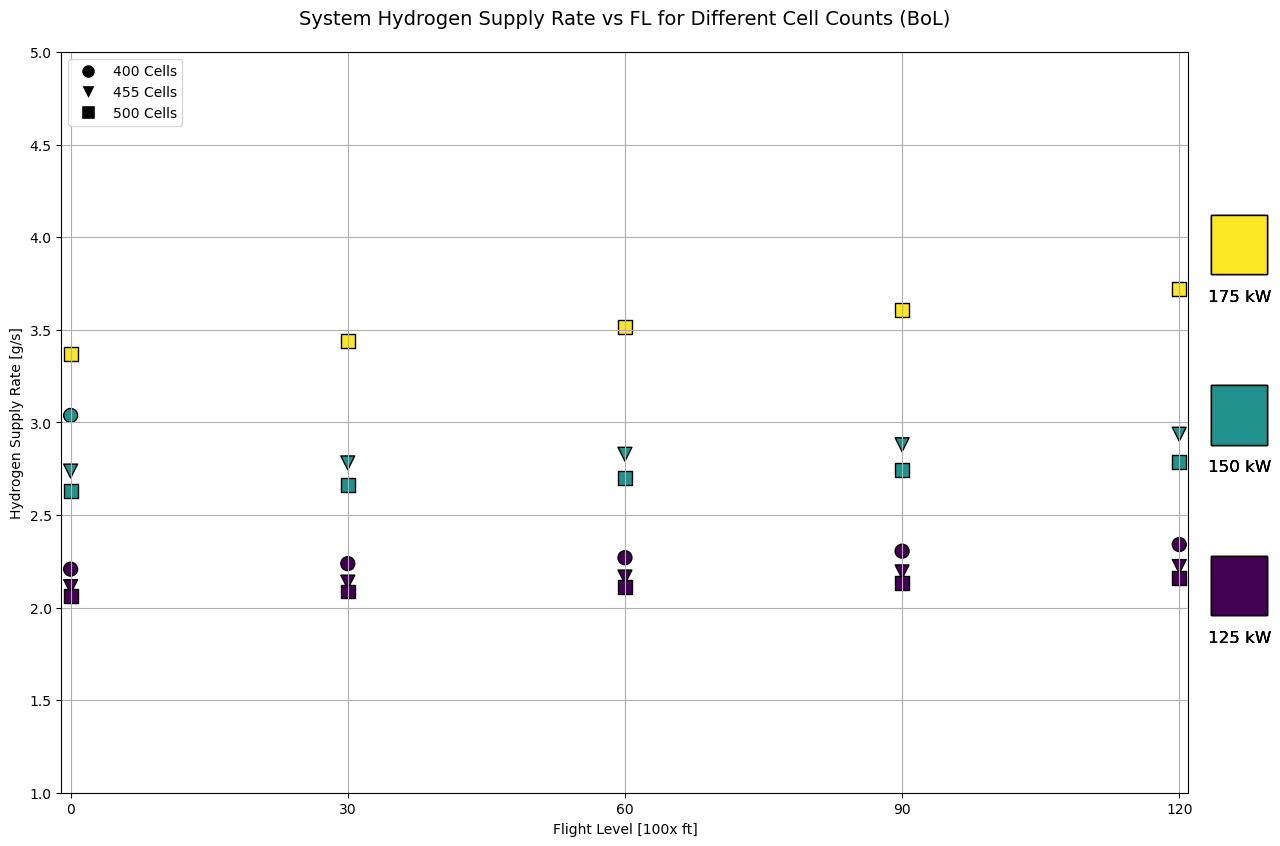
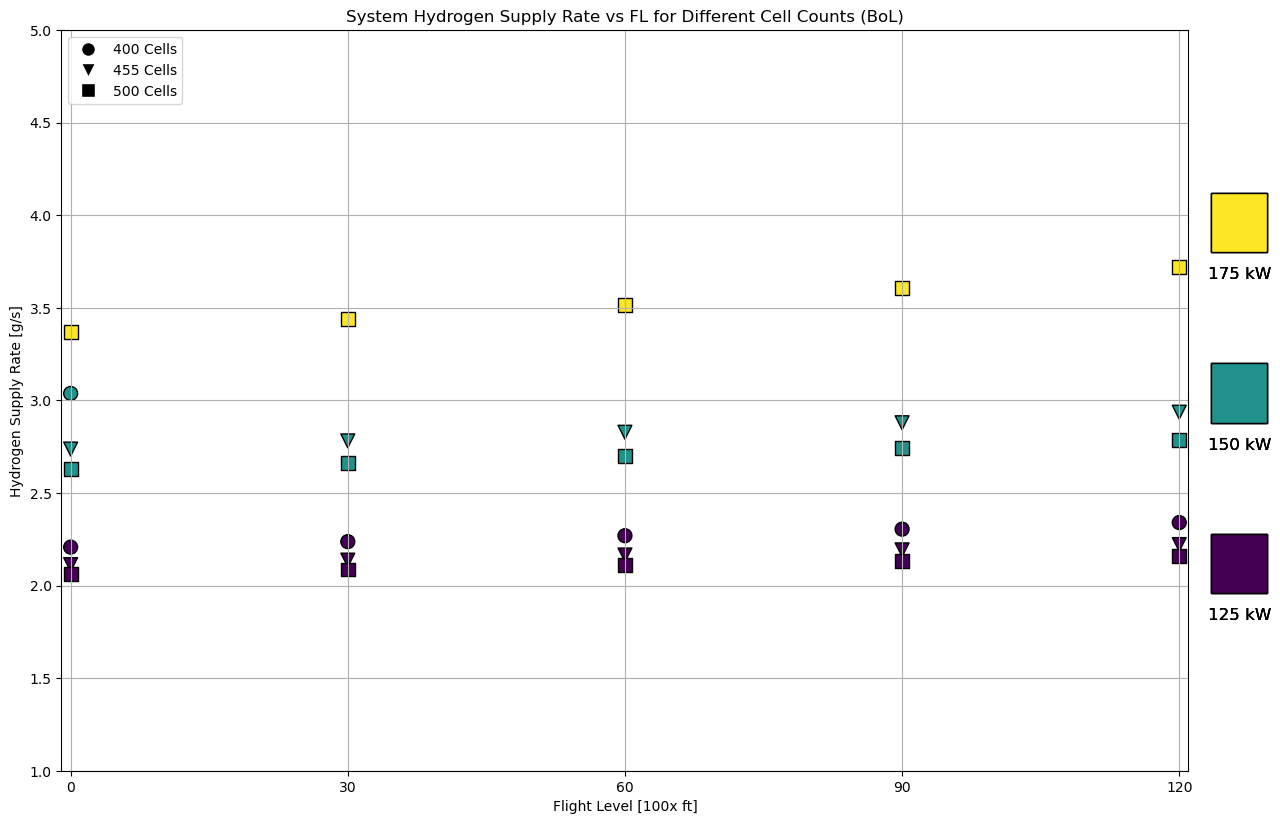
refactor: create dictionary for plots

diff --git a/05_overall/05_fcs_dimensioning_model/Postprocessing/plot_h2_supply_vs_FL.py b/05_overall/05_fcs_dimensioning_model/Postprocessing/plot_h2_supply_vs_FL.py
@@ -4,6 +4,17 @@ import matplotlib.colors as mcolors
 import matplotlib.pyplot as plt
 import matplotlib.patches as patches
 from get_plot_settings import *
+
+params = {
+    'title': '', 
+    'x_label': 'Flight Level [100x ft]', 
+    'x_lim': None, 
+    'y_label': 'Hydrogen Supply Rate [g/s]',
+    'y_lim': None,  
+}
+
+
+
 # %% PLOT: H2 supply over flight level all in one
 def plot_h2_supply_vs_FL(df1, markers, fl_max, weighting, show_plot, saving=True, mode="eol"):
     """
@@ -58,20 +69,22 @@ def plot_h2_supply_vs_FL(df1, markers, fl_max, weighting, show_plot, saving=True
         handles = [plt.Line2D([0], [0], marker=marker, color='w', markerfacecolor='k', markersize=10, linestyle='') for marker in markers]
         labels = [f'{cell} Cells' for cell in cells]
         
+
+        # Set title and axis labels
+        params.update({'title': f'System Hydrogen Supply Rate vs FL for Different Cell Counts ({mode_name})'})
+        params.update({'x_lim':[-1, fl_max + 1]})
+        params.update({'y_lim': [1, 5]})
+        configure_axes(ax, **params)
+
+
         # Add legend
         ax.legend(handles, labels, loc='upper left')
         
-        # Set title and labels
-        ax.set_title(f'System Hydrogen Supply Rate vs FL for Different Cell Counts ({mode_name})', fontsize=14, pad=20)
-        ax.set_xlabel('Flight Level [100x ft]')
         # Set x-range from 0 to 140 in steps of 30, and include 150
         x_ticks = list(range(0, fl_max + 1, 30))
-        ax.set_xlim([0, fl_max])
         ax.set_xticks(x_ticks)
-        ax.set_xlim([-1, fl_max + 1])
-        ax.set_ylabel('Hydrogen Supply Rate [g/s]')
-        ax.set_ylim([1,5])
-        ax.grid(True)
+
+
         
         # Position the boxes vertically in the middle with spacing and labels below
         box_x = 1.02  # Position on the right side, outside the plot

diff --git a/05_overall/05_fcs_dimensioning_model/Postprocessing/plot_system_mass_estimate.py b/05_overall/05_fcs_dimensioning_model/Postprocessing/plot_system_mass_estimate.py
@@ -14,6 +14,17 @@ sys.path.append(os.path.abspath(os.path.join(os.path.dirname(__file__), '..')))
 from Components.stack import Stack
 from parameters import Mass_Parameters
 
+
+params = {
+    'title': '', 
+    'x_label': 'Net Power [kW]', 
+    'x_lim': None, 
+    'y_label': 'Mass [kg]',
+    'y_lim': None,  
+}
+
+
+
 # %%PLOT a stacked bar chart of each subsystem component mass grouped by power level.         
 def plot_system_mass_estimate(data, titles, colors, components_dict, markers, weighting, show_plot, saving=True, mode="bol"):  
     """
@@ -300,12 +311,14 @@ def plot_system_mass_estimate(data, titles, colors, components_dict, markers, we
         ax.hlines(target, x[i] - bar_width, x[i] + n_values * (bar_width + bar_spacing) - bar_spacing, colors='grey', linestyles='dashed', label=f'Target: {target_specific_power} kW/kg')
         
     # Adding labels and title
-    ax.set_xlabel('Net Power [kW]')
-    ax.set_ylabel('Mass [kg]')
-    ax.set_title(f'Predicted FCM Mass, {mode_name}')
+    params.update({'title':f'Predicted FCM Mass, {mode_name}'})
+    params.update({'y_lim': [0,max_tracker +125]})
+    configure_axes(ax, **params)
+
+
     ax.set_xticks(x + (n_values - 1) * (bar_width + bar_spacing) / 2)
     ax.set_xticklabels(categories)
-    ax.set_ylim([0,max_tracker +125])
+
     
     # Insert texbox explaining crosses. 
     fig.text(0.07, 0.87, r'$\bf{X}$', fontsize=12, ha='left', va='top', color='red')

diff --git a/05_overall/05_fcs_dimensioning_model/Postprocessing/plot_h2_vs_mass.py b/05_overall/05_fcs_dimensioning_model/Postprocessing/plot_h2_vs_mass.py
@@ -7,6 +7,14 @@ from scipy.spatial import ConvexHull
 
 from get_plot_settings import *
 
+
+params = {
+    'title': '', 
+    'x_label': 'System Mass [kg]', 
+    'x_lim': [90, 135], 
+    'y_label': 'Hydrogen Supply Rate [g/s]',
+    'y_lim': None,  
+}
 def plot_h2_vs_mass(data, titles, colors, fl_set, show_plot, saving=True):
     """
     Plot of H2 supply vs system power with convex hull envelope around all points,
@@ -77,17 +85,13 @@ def plot_h2_vs_mass(data, titles, colors, fl_set, show_plot, saving=True):
         connect_power_levels(ax, df_filtered)
 
         # Set title, labels, and legend
-        configure_axes(ax, f'{title} Cells, FL {fl_set}', 'System Mass [kg]', [90, 135], 'Hydrogen Supply Rate [g/s]', None )
+        params.update({'title': f'{title} Cells, FL {fl_set}'})
+        configure_axes(ax, **params)
 
         ax.legend([f"Optimized: {label[0]}", f"Optimized: {label[1]}"], loc='lower right')
 
     # Add colorbar for the gradient
-    cbar = plt.colorbar(cmap, ax=ax)
-    cbar.set_label('System Power [kW]')
-    
-    # Set custom colorbar ticks
-    cbar.set_ticks([20, 50, 75, 100, 125, 150, 175])
-    cbar.ax.set_yticklabels([f'{int(t)} kW' for t in cbar.get_ticks()])
+    add_colorbar(cmap, ax)
     
     # Adjust layout after adding all subplots
     plt.tight_layout(pad=2.0)

diff --git a/05_overall/05_fcs_dimensioning_model/Postprocessing/plot_pol_curves_connected.py b/05_overall/05_fcs_dimensioning_model/Postprocessing/plot_pol_curves_connected.py
@@ -2,6 +2,14 @@
 import pandas as pd
 import matplotlib.pyplot as plt
 from get_plot_settings import *
+params = {
+    'title': '', 
+    'x_label': 'Current [A]', 
+    'x_lim': [0, 800], 
+    'y_label': 'Cell Voltage [V]',
+    'y_lim': [0.3, 1],  
+}
+
 #%% PLOT: Polcurve bol vs eol connected points
 def plot_polarization_curves_bol_eol(df1, titles, colors, fl_set, markers_oL, weighting, show_plot, saving=True):
     """
@@ -76,11 +84,14 @@ def plot_polarization_curves_bol_eol(df1, titles, colors, fl_set, markers_oL, we
     plot_data(ax, bol_data, eol_data, titles, colors, highlight_powers)
 
     # Add red shaded area and labels
+    
+    # Set title and axis labels
+    params.update({'title': f'System Polarization Curve - EoL vs BoL, FL {fl_set}'})
+    configure_axes(ax, **params)
+
     ax.axvspan(700, 1000, color='red', alpha=0.2)
-    ax.set(title=f"System Polarization Curve - EoL vs BoL, FL {fl_set}", xlabel='Current [A]', xlim=[0, 1000], ylabel='Cell Voltage [V]', ylim=[0.3, 1])
-    ax.grid(True)
     ax.legend(loc='upper right')
-    ax.set_xlim([0, 800])
+
     # Save and show plot
     if saving:
         file_path = create_plot_save_directory((f'bol_eol_polarization_curve_weighting_{weighting}.png'), weighting)

diff --git a/05_overall/05_fcs_dimensioning_model/Postprocessing/plot_system_efficiency.py b/05_overall/05_fcs_dimensioning_model/Postprocessing/plot_system_efficiency.py
@@ -3,6 +3,15 @@ import pandas as pd
 import matplotlib.pyplot as plt
 import numpy as np
 from get_plot_settings import *
+
+params = {
+    'title': '', 
+    'x_label': 'System Power [kW]', 
+    'x_lim': None, 
+    'y_label': 'System Efficiency [-]',
+    'y_lim': None,  
+}
+
 # %% PLOT: system efficiency (aka Flade plot)
 def plot_system_efficiency(data, titles, colors, fl_set, markers_oL, weighting, show_plot, saving=True):
     """
@@ -63,14 +72,14 @@ def plot_system_efficiency(data, titles, colors, fl_set, markers_oL, weighting, 
             handles.append(line)
             labels.append(formula)
 
+    # Set title and axis labels
+    params.update({'title': f'System Efficiency vs System Net Power, FL {fl_set}'})
+    configure_axes(ax, **params)
     # Create the legend
     ax.legend(handles, labels, loc='best')
 
-    # Set title and labels
-    ax.set_title(f'System Efficiency vs System Net Power, FL {fl_set}')
-    ax.set_xlabel('System Power [kW]')
-    ax.set_ylabel('System Efficiency [-]')
-    ax.grid(True)
+
+
     
     if saving:
         file_path = create_plot_save_directory(f'System_Efficiency_vs_Power_weighting_{weighting}.png', weighting)

diff --git a/05_overall/05_fcs_dimensioning_model/Postprocessing/get_plots_operating_parameters.py b/05_overall/05_fcs_dimensioning_model/Postprocessing/get_plots_operating_parameters.py
@@ -8,6 +8,15 @@ import os
 from get_plot_settings import *
 
 
+
+params = {
+    'title': '', 
+    'x_label': 'Current [A]', 
+    'x_lim': [0, 800], 
+    'y_label': '',
+    'y_lim': None,  
+}
+
 # Import parameters.py from the parent directory
 sys.path.append(os.path.abspath(os.path.join(os.path.dirname(__file__), '..')))
 from parameters import Optimization_Parameters
@@ -79,7 +88,11 @@ def plot_optimized_parameters(data, data_doe, titles, fl_set, markers_oL, var, y
         ax.axvspan(700, 800, color='red', alpha=0.3)
 
         # Set title and labels
-        configure_axes(ax, f'Optimized Operating Parameters: {var}, FL {fl_set}, {title}', 'Current [A]', [0, 800], f'{var}',[yrange[0], yrange[1]])
+        params.update({'title': f'Optimized Operating Parameters: {var}, FL {fl_set}, {title}'})
+        params.update({'y_label': f'{var}'})
+        params.update({'y_lim': [yrange[0], yrange[1]]})
+
+        configure_axes(ax, **params)        
         fig.tight_layout()
         # Create a custom legend (optional)
         create_legend(ax, markers_oL)

diff --git a/05_overall/05_fcs_dimensioning_model/Postprocessing/plot_h2_supply_vs_systempower.py b/05_overall/05_fcs_dimensioning_model/Postprocessing/plot_h2_supply_vs_systempower.py
@@ -4,6 +4,15 @@ import matplotlib.pyplot as plt
 import numpy as np
 from get_plot_settings import *
 
+params = {
+    'title': '', 
+    'x_label': 'System Power [kW]', 
+    'x_lim': None, 
+    'y_label': 'Hydrogen Supply Rate [g/s]',
+    'y_lim': None,  
+}
+
+
 # %% PLOT: h2_supply
 def plot_h2_supply_vs_systempower(data, titles, colors, fl_set, markers_oL, weighting, show_plot, saving=True):
     """
@@ -86,12 +95,10 @@ def plot_h2_supply_vs_systempower(data, titles, colors, fl_set, markers_oL, weig
 
     # Create the legend
     ax.legend(handles, labels, loc='best')
+    # Set title and axis labels
+    params.update({'title': f'Hydrogen Supply Rate vs System Net Power, FL {fl_set}'})
+    configure_axes(ax, **params)
 
-    # Set title and labels
-    ax.set_title(f'Hydrogen Supply Rate vs System Net Power, FL {fl_set}')
-    ax.set_xlabel('System Power [kW]')
-    ax.set_ylabel('Hydrogen Supply Rate [g/s]')
-    ax.grid(True)
     
     if saving:
         file_path = create_plot_save_directory(f'H2_Supply_weighting_{weighting}.png', weighting)

diff --git a/05_overall/05_fcs_dimensioning_model/Postprocessing/plot_pol_curves.py b/05_overall/05_fcs_dimensioning_model/Postprocessing/plot_pol_curves.py
@@ -7,6 +7,13 @@ import matplotlib.lines as mlines
 
 from get_plot_settings import *
 
+params = {
+    'title': '', 
+    'x_label': 'Current [A]', 
+    'x_lim': [0, 800], 
+    'y_label': 'Cell Voltage [V]',
+    'y_lim': [0, 1.25],  
+}
 
 # %% PLOT: Polcurve single BoL/EoL
 def plot_polarization_curves(data, titles, fl_set, markers_oL, weighting, show_plot, saving=True):
@@ -54,8 +61,9 @@ def plot_polarization_curves(data, titles, fl_set, markers_oL, weighting, show_p
         ax.axvspan(700, 800, color='red', alpha=0.3)
 
         # Set title and axis labels
-        configure_axes(ax, f'System Polarization Curve, FL {fl_set}, {title}', 'Current [A]', [0, 800], 'Cell Voltage [V]',[0, 1.25])
-        # Create a custom legend (optional)
+        params.update({'title': f'System Polarization Curve, FL {fl_set}, {title}'})
+
+        configure_axes(ax, **params)        # Create a custom legend (optional)
         create_legend(ax, markers_oL)
 
 

diff --git a/05_overall/05_fcs_dimensioning_model/Postprocessing/get_plot_settings.py b/05_overall/05_fcs_dimensioning_model/Postprocessing/get_plot_settings.py
@@ -33,12 +33,12 @@ def create_plot_save_directory(filename, weighting, directory=""):
     return file_path
  
 
-def configure_axes(ax, title="", xlabel="", xlim=None, ylabel="", ylim=None):
-        ax.set_title(title)
-        ax.set_xlabel(xlabel)
-        ax.set_xlim(xlim)
-        ax.set_ylabel(ylabel)
-        ax.set_ylim(ylim)
+def configure_axes(ax, **params):
+        ax.set_title(params.get('title', 'Standard Titel'))
+        ax.set_xlabel(params.get('x_label', 'X-Achse'))
+        ax.set_xlim(params.get('x_lim', None))
+        ax.set_ylabel(params.get('y_label', 'Y-Achse'))
+        ax.set_ylim(params.get('y_lim', None))
         ax.grid(True)
 
 def create_legend(ax, markers_oL):

diff --git a/05_overall/05_fcs_dimensioning_model/Postprocessing/plot_compressor_map.py b/05_overall/05_fcs_dimensioning_model/Postprocessing/plot_compressor_map.py
@@ -118,13 +118,8 @@ def plot_compressor_map(data, titles, colors, markers, weighting, show_plot, sav
             
             
     # Add colorbar for the gradient
-    cbar = plt.colorbar(cmap, ax=ax)
-    cbar.set_label('System Power [kW]')
+    add_colorbar(cmap, ax)
     
-    # Manually set colorbar ticks from 20 to 175 in 25 steps
-    cbar.set_ticks([20, 50, 75, 100, 125, 150, 175])
-    cbar.ax.set_yticklabels([f'{int(t)} kW' for t in cbar.get_ticks()])
-
     # Add title and a legend for the datasets
     fig.suptitle(f'Compressor Pressure Ratio vs Corrected Air Flow, {mode_name}', fontsize=14)
 
